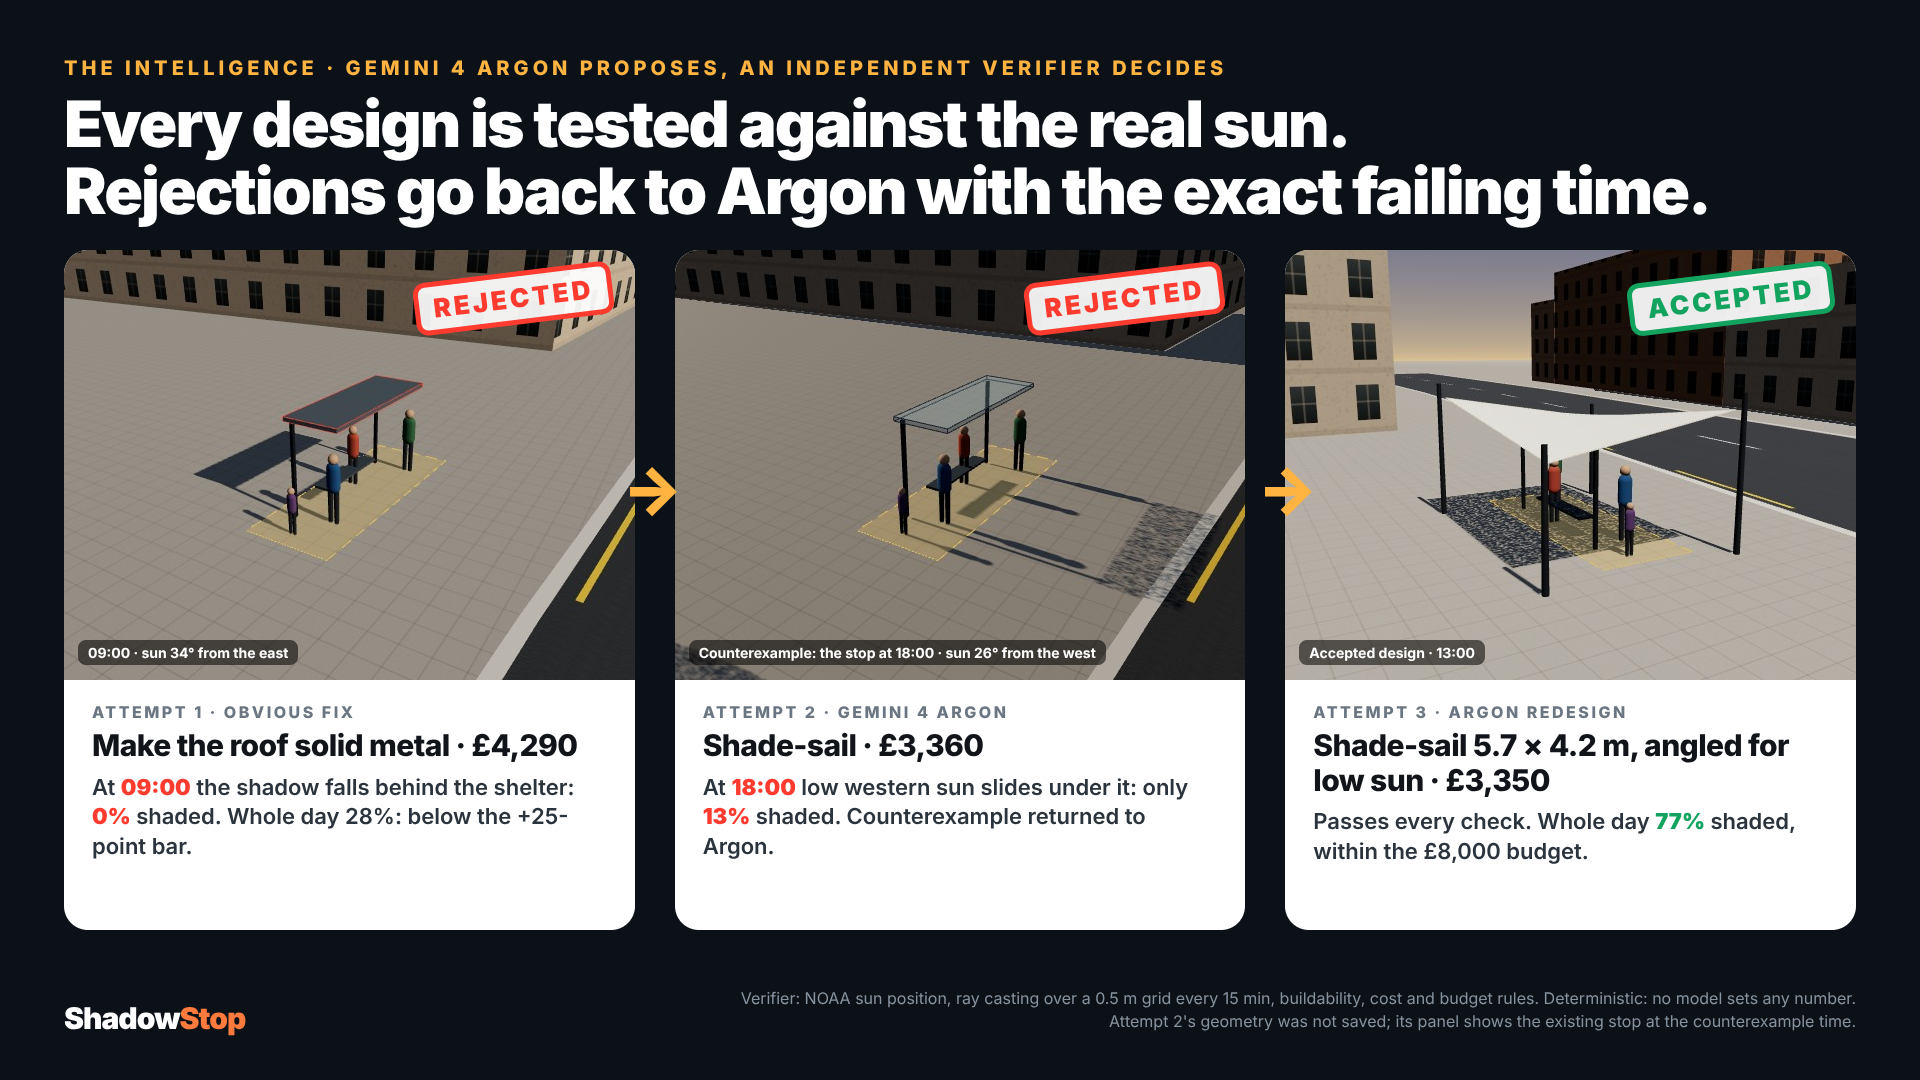
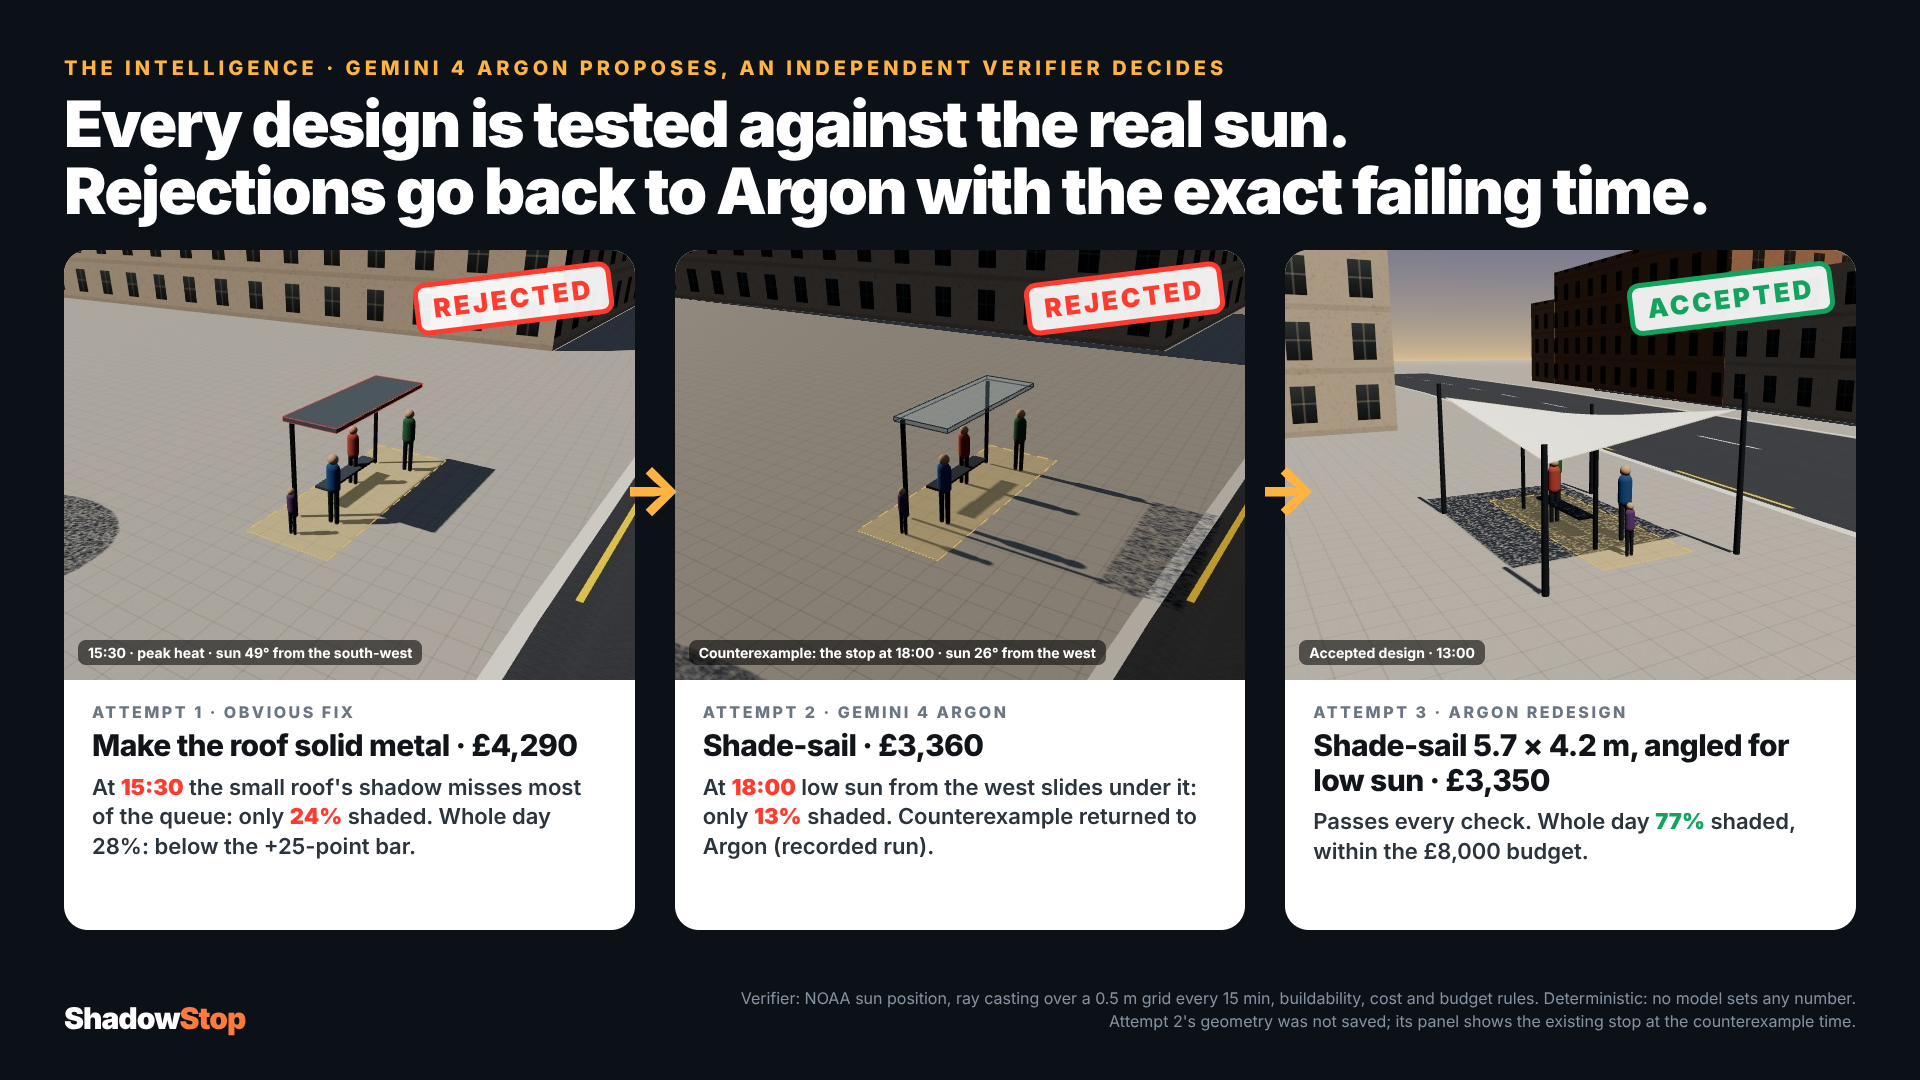
Film, cards, 3D page: take the obvious-fix and Argon counterexamples from hero.json (now 15:30, 24%, peak-heat rule) instead of hardcoded 09:00
Claude-Session: https://claude.ai/code/session_01HmNqb9jsY9cdKywkd4ujHN

Changed region(s): [[0.0312, 0.2139, 0.3438, 0.6417], [0.0312, 0.7028, 0.3125, 0.7944], [0.3438, 0.7028, 0.625, 0.7944]]

diff --git a/web/cards.html b/web/cards.html
@@ -89,9 +89,9 @@
   <div class="head"><div class="kick">The intelligence · Gemini 4 Argon proposes, an independent verifier decides</div>
     <h1>Every design is tested against the real sun.<br>Rejections go back to Argon with the exact failing time.</h1></div>
   <div class="cols">
-    <div class="col"><div class="img"><img class="shot" id="i1" alt=""></div><div class="cap">09:00 · sun 34° from the east</div><div class="stamp bad">REJECTED</div>
+    <div class="col"><div class="img"><img class="shot" id="i1" alt=""></div><div class="cap" id="i1c"></div><div class="stamp bad">REJECTED</div>
       <div class="body"><div class="n">Attempt 1 · obvious fix</div><div class="d" id="i1d"></div><div class="why" id="i1w"></div></div></div>
-    <div class="col"><div class="img"><img class="shot" id="i2" alt=""></div><div class="cap">Counterexample: the stop at 18:00 · sun 26° from the west</div><div class="stamp bad">REJECTED</div>
+    <div class="col"><div class="img"><img class="shot" id="i2" alt=""></div><div class="cap" id="i2c"></div><div class="stamp bad">REJECTED</div>
       <div class="body"><div class="n">Attempt 2 · Gemini 4 Argon</div><div class="d" id="i2d"></div><div class="why" id="i2w"></div></div></div>
     <div class="col"><div class="img"><img class="shot" id="i3" alt=""></div><div class="cap">Accepted design · 13:00</div><div class="stamp ok">ACCEPTED</div>
       <div class="body"><div class="n">Attempt 3 · Argon redesign</div><div class="d" id="i3d"></div><div class="why" id="i3w"></div></div></div>
@@ -134,6 +134,8 @@
     X.render();
     return X.renderer.domElement.toDataURL('image/jpeg', 0.92);
   }
+  const COMPASS = ['north', 'north-east', 'east', 'south-east', 'south', 'south-west', 'west', 'north-west'];
+  const cex = (r) => { const m = /at (\d\d):(\d\d) \(sun az (\d+) deg, el (\d+) deg\) only (\d+)%/.exec(String(r || '')); return m && { t: `${m[1]}:${m[2]}`, h: +m[1] + +m[2] / 60, el: +m[4], shade: +m[5], from: COMPASS[Math.round(+m[3] / 45) % 8] }; };
   const atts = H.attempts, ob = atts.find((a) => a.by === 'baseline'), ar = atts.find((a) => a.by === 'argon' && !a.accepted), ac = [...atts].reverse().find((a) => a.accepted);
   const bS = H.stats?.shade_before_pct ?? Math.round(H.before.score * 100), aS = H.stats?.shade_after_pct ?? Math.round(H.after.score * 100);
   const cost = H.design?.cost_gbp ?? ac.cost_gbp;
@@ -150,14 +152,17 @@
 
   // intelligence
   $('i1d').textContent = `Make the roof solid metal · ${gbp(ob.cost_gbp)}`;
-  $('i1w').innerHTML = `At <b>09:00</b> the shadow falls behind the shelter: <b>0%</b> shaded. Whole day ${pct(ob.score_after)}: below the +25-point bar.`;
+  const c1 = cex(ob.reason), c2 = cex(ar.reason);
+  $('i1c').textContent = `${c1.t} · peak heat · sun ${c1.el}° from the ${c1.from}`;
+  $('i2c').textContent = `Counterexample: the stop at ${c2.t} · sun ${c2.el}° from the ${c2.from}`;
+  $('i1w').innerHTML = `At <b>${c1.t}</b> the small roof's shadow misses most of the queue: only <b>${c1.shade}%</b> shaded. Whole day ${pct(ob.score_after)}: below the +25-point bar.`;
   $('i2d').textContent = `Shade-sail · ${gbp(ar.cost_gbp)}`;
-  $('i2w').innerHTML = `At <b>18:00</b> low western sun slides under it: only <b>13%</b> shaded. Counterexample returned to Argon.`;
+  $('i2w').innerHTML = `At <b>${c2.t}</b> low sun from the ${c2.from} slides under it: only <b>${c2.shade}%</b> shaded. Counterexample returned to Argon (recorded run).`;
   $('i3d').textContent = `Shade-sail ${H.design.size.join(' × ')} m, angled for low sun · ${gbp(ac.cost_gbp)}`;
   $('i3w').innerHTML = `Passes every check. Whole day <b class="ok">${pct(ac.score_after)}</b> shaded, within the £8,000 budget.`;
   const colV = { px: 6.5, py: -11, pz: 6.5, tx: -0.4, ty: 0.2, tz: 0.6, fov: 42 };
-  $('i1').src = shot(580, 430, { mode: 'obvious', hour: 9 }, colV);
-  $('i2').src = shot(580, 430, { mode: 'before', hour: 18 }, colV);
+  $('i1').src = shot(580, 430, { mode: 'obvious', hour: c1.h }, colV);
+  $('i2').src = shot(580, 430, { mode: 'before', hour: c2.h }, colV);
   $('i3').src = shot(580, 430, { mode: 'after', hour: 13 }, { px: -7, py: -12, pz: 4.2, tx: 0.3, ty: 0.8, tz: 1.3, fov: 40 });
 
   // result

diff --git a/web/story_v2.js b/web/story_v2.js
@@ -5,7 +5,7 @@
 //  0-5   real photo of the stop, waiting area marked
 //  5-11  London map fly-in to Hackney, the real scanned stops (assets/hackney_scan.json)
 //  11-19 3D BEFORE, sun moves 09:00-18:00, verified 14%
-//  19-27 two rejected designs and why (obvious roof shown in 3D at its 09:00 counterexample)
+//  19-27 two rejected designs and why (obvious roof shown in 3D at the counterexample time in hero.json)
 //  27-38 Argon's accepted shade-sail builds, sun sweeps, shadow moves
 //  38-47 identical camera before | after, verified 14% -> 77%
 //  47-55 hero view, £3,350 indicative, ShadowStop
@@ -17,6 +17,13 @@
   const tw = (t, v) => new Promise((r) => gsap.to(t, { ...v, onComplete: r }));
   const pct = (v) => Math.round(v * 100) + '%';
   const gbp = (v) => '£' + Number(v).toLocaleString('en-GB', { maximumFractionDigits: 0 });
+  // the verifier's own counterexample, parsed from its recorded reason text (hero.json attempts)
+  const COMPASS = ['north', 'north-east', 'east', 'south-east', 'south', 'south-west', 'west', 'north-west'];
+  function cex(reason) {
+    const m = /at (\d\d):(\d\d) \(sun az (\d+) deg, el (\d+) deg\) only (\d+)%/.exec(String(reason || ''));
+    if (!m) return null;
+    return { t: `${m[1]}:${m[2]}`, h: +m[1] + +m[2] / 60, az: +m[3], el: +m[4], shade: +m[5], from: COMPASS[Math.round(+m[3] / 45) % 8] };
+  }
   const fmt = (h) => { const hh = Math.floor(h + 1e-6), mm = Math.round((h - hh) * 60); return `${String(hh).padStart(2, '0')}:${String(mm % 60).padStart(2, '0')}`; };
 
   // ---------- stage scaling
@@ -200,7 +207,9 @@
     gsap.to('#hold', { opacity: 0, duration: 0.35 });
 
     // 19-27 s: two rejected designs ---------------------------------------------------
-    X.set({ mode: 'obvious', hour: 9, waGlow: 1 });
+    const c1 = cex(obvious?.reason) || { t: '15:30', h: 15.5, az: 236, el: 49, shade: 24, from: 'south-west' };
+    const c2 = cex(argonRejected?.reason) || { t: '18:00', h: 18, az: 271, el: 26, shade: 13, from: 'west' };
+    X.set({ mode: 'obvious', hour: c1.h, waGlow: 1 });
     camTo({ px: 7.5, py: -13.5, pz: 9, tx: -0.6, ty: 0.8, tz: -1.4, fov: 40 }, 1.2);
     gsap.to('#scrim', { opacity: 1, duration: 0.6 });
     gsap.to('#loop', { opacity: 1, duration: 0.6 });
@@ -214,18 +223,18 @@
     const on = (id) => ['l1', 'l2', 'l3'].forEach((k) => $(k).classList.toggle('on', k === id));
     on('l1');
     showAtt(1, 'the obvious fix', `Make the roof solid metal · ${gbp(obvious?.cost_gbp ?? 4290)} indicative`,
-      'At <b>09:00</b> the sun is 34° high in the east: the roof\'s shadow falls behind the shelter. <b>0%</b> of the waiting area is shaded.',
-      `Whole day only ${pct(obvious?.score_after ?? 0.28)} shaded: below the +25-point bar.`, false);
+      `At <b>${c1.t}</b>, in peak heat, the sun is ${c1.el}° high from the ${c1.from}: the small roof's shadow misses most of the queue. Only <b>${c1.shade}%</b> shaded.`,
+      `Whole day only ${pct(obvious?.score_after ?? 0.28)} shaded: below the +25-point bar. (Shown in 3D at ${c1.t}.)`, false);
     await wait(1.6); on('l2');
     await wait(2.0); on('l3');
     gsap.to(att, { opacity: 0, x: -40, duration: 0.35 });
     await wait(0.4);
     // Argon's first sail: its geometry wasn't saved, so we show the counterexample moment on the existing stop
     X.set({ mode: 'before' });
-    sweep('before', 9, 18, 1.4, () => {});
+    sweep('before', c1.h, c2.h, 1.4, () => {});
     showAtt(2, 'Gemini 4 Argon', `Tensioned shade-sail · ${gbp(argonRejected?.cost_gbp ?? 3360)} indicative`,
-      'At <b>18:00</b> the sun is only 26° high, from the west: it slides under the sail. <b>13%</b> shaded.',
-      'Verifier sends back the exact failing time and sun angle (shown: the stop at 18:00). Argon redesigns.', false);
+      `At <b>${c2.t}</b> the sun is only ${c2.el}° high, from the ${c2.from}: it slides under the sail. <b>${c2.shade}%</b> shaded.`,
+      `Recorded run: the verifier sent this time and sun angle back to Argon (shown: the existing stop at ${c2.t}). Argon redesigned.`, false);
     on('l3');
     await wait(3.6);
 

diff --git a/web/hero3d.html b/web/hero3d.html
@@ -75,7 +75,7 @@
     $('sunr').textContent = `sun az ${Math.round(b.sun_az)}° · el ${Math.round(b.sun_el)}°`;
     if (mode === 'after') { $('readN').innerHTML = `<span style="color:var(--ok)">${pct(a.shade)}</span>`; $('readL').textContent = `Shaded at ${a.t} (verifier)`; $('readDay').innerHTML = `Whole day: <span style="color:var(--hot)">${pct(hb.before.score)}</span> → <span style="color:var(--ok)">${pct(hb.after.score)}</span>`; }
     else if (mode === 'split') { $('readN').innerHTML = `<span style="color:var(--hot)">${pct(b.shade)}</span> → <span style="color:var(--ok)">${pct(a.shade)}</span>`; $('readL').textContent = `Shaded at ${b.t}: before → after`; $('readDay').innerHTML = `Whole day: <span style="color:var(--hot)">${pct(hb.before.score)}</span> → <span style="color:var(--ok)">${pct(hb.after.score)}</span>`; }
-    else if (mode === 'obvious') { const o = hb.attempts.find((x) => x.by === 'baseline'); $('readN').innerHTML = `<span style="color:var(--hot)">${pct(o.score_after)}</span>`; $('readL').textContent = 'Obvious fix, whole day: REJECTED'; $('readDay').textContent = '0% shaded at 09:00 (sun 34° from the east)'; }
+    else if (mode === 'obvious') { const o = hb.attempts.find((x) => x.by === 'baseline'); $('readN').innerHTML = `<span style="color:var(--hot)">${pct(o.score_after)}</span>`; $('readL').textContent = 'Obvious fix, whole day: REJECTED'; const m = /at (\d\d:\d\d) \(sun az \d+ deg, el (\d+) deg\) only (\d+)%/.exec(o.reason || ''); $('readDay').textContent = m ? `Verifier: only ${m[3]}% shaded at ${m[1]} (sun ${m[2]}°)` : o.reason; }
     else { $('readN').innerHTML = `<span style="color:var(--hot)">${pct(b.shade)}</span>`; $('readL').textContent = `Shaded at ${b.t} (verifier)`; $('readDay').innerHTML = `Whole day: <span style="color:var(--hot)">${pct(hb.before.score)}</span>`; }
     document.querySelectorAll('#modes button').forEach((x) => x.classList.toggle('on', x.dataset.m === mode));
   }

diff --git a/docs/STAGE_RUNBOOK.md b/docs/STAGE_RUNBOOK.md
@@ -17,7 +17,7 @@ The film is the intro; the live 3D scene is the proof. Never rely on the film al
 |---|---|---|
 | 0:00–0:55 | **Film** | Let it play; talk over it lightly. "A real bus stop in Hackney. On a July heatwave day its glass-roofed shelter shades the waiting area 14% of the time." |
 | 0:55–1:35 | **Tab 2, live**: drag the slider 09:00 → 13:00 → 18:00 | "This is the working app, not the video. Drag the sun: the sun angle comes from NOAA, and the shade number is the engine ray-casting 0.5 m cells at 1.2 m height. Press **B**: the existing shelter, 0% at 09:00. Press **A**: Argon's design, 47% at the same moment." |
-| 1:35–2:15 | Tab 2: **Replay last run** (log on the right) | "Argon proposes and the verifier decides. The obvious solid roof is rejected: 0% at 09:00. Argon's first sail is rejected: 13% at 18:00, low western sun. That exact counterexample goes back to Argon, and the redesign is accepted: 14% → 77%, £3,350 indicative." |
+| 1:35–2:15 | Tab 2: **Replay last run** (log on the right) | "Argon proposes and the verifier decides. The obvious solid roof is rejected: only 24% shaded at 15:30, in peak heat, and +14 points over the day is below the bar. Argon's first sail was rejected in the recorded run: 13% at 18:00, low western sun. That exact counterexample goes back to Argon, and the redesign is accepted: 14% → 77%, £3,350 indicative." |
 | 2:15–2:40 | Tab 2: approve, then **Export council brief** (optional) | "A human approves before anything is exported for the council." |
 | 2:40–3:00 | Tab 3 **Split**, or the result card | "Same camera, same sun, before and after. Gemini designs; physics proves." |
 
@@ -29,4 +29,5 @@ If the live app misbehaves: switch to **Tab 3** (same verified scene, works offl
 - **£3,350?** An indicative figure from the material catalogue (fixed + per-m² rate). It is not a quote.
 - **The after photo?** An architectural illustration of the verified design, made by Nano Banana 2.1. It is not a photograph and not a source of any number.
 - **The 3D?** OpenStreetMap buildings and trees, with the shelter roof and the accepted design exactly as verified. Shadows are cast by that geometry; partial opacity shows as dappled shade. Masts and people are illustrative.
-- **Argon's rejected sail:** its geometry wasn't saved. The film shows the existing stop at the counterexample time (18:00), labelled as such.
+- **Argon's rejected sail:** its geometry wasn't saved. The film shows the existing stop at the counterexample time (18:00), labelled as such. That rejection is from the recorded run. The verifier has since been changed to apply its worst-moment rule only in the 11:00–16:00 peak-heat window, so if asked, say that 18:00 was the rule at the time of the run.
+- **Obvious fix:** the verifier's current reason (in `hero.json`) is +14 points (below the +25 bar) and only 24% shaded at 15:30. It is also 0% shaded at 09:00.
